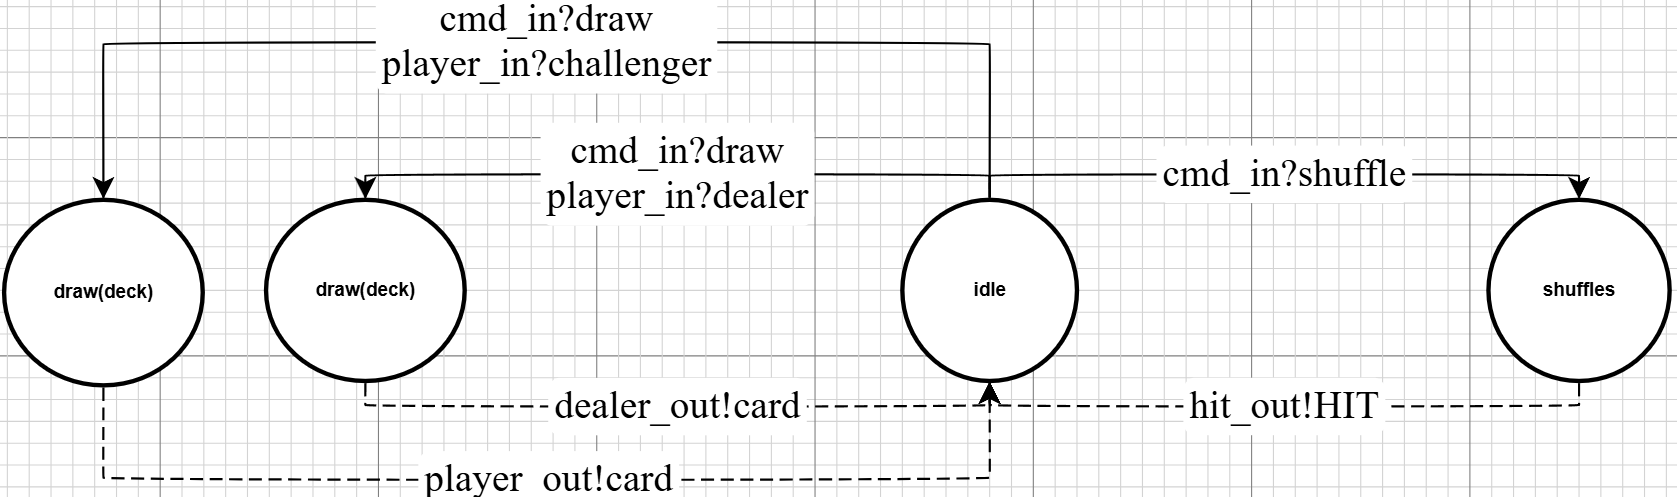
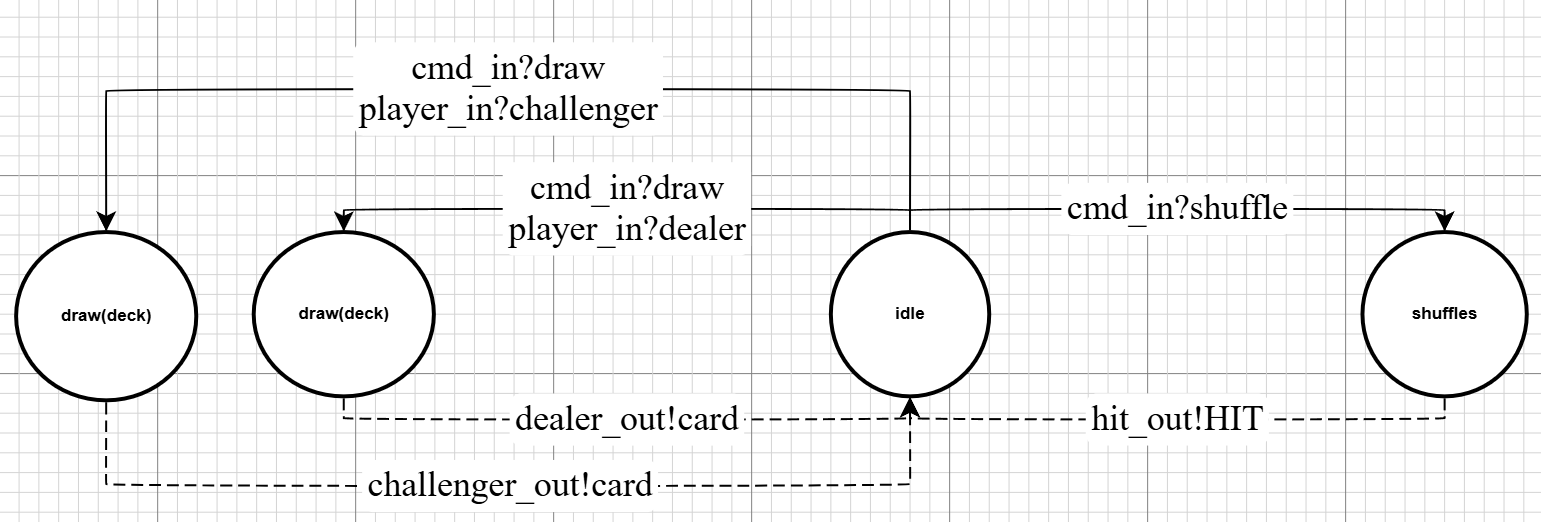
Fixed deck diagram
- Minor notation error in controller fixed as well

diff --git a/documentation/atomic_models/controller.md b/documentation/atomic_models/controller.md
@@ -18,7 +18,7 @@ the last input ($s_4$). We add the IDLE to s4 to idle in-between inputs.
 
 $$ s1 \in \{CHALLENGER, DEALER\}$$
 $$ s2, s3 \in \mathbb{N} \cap [1,30]$$
-$$ s4 \in X \cup \{IDLE\}$$
+$$ s4 \in decision \cup \{IDLE\}$$
 $$ S = \{(s1,s2,s3,s4)\} $$
 
 ## Y - Outputs
